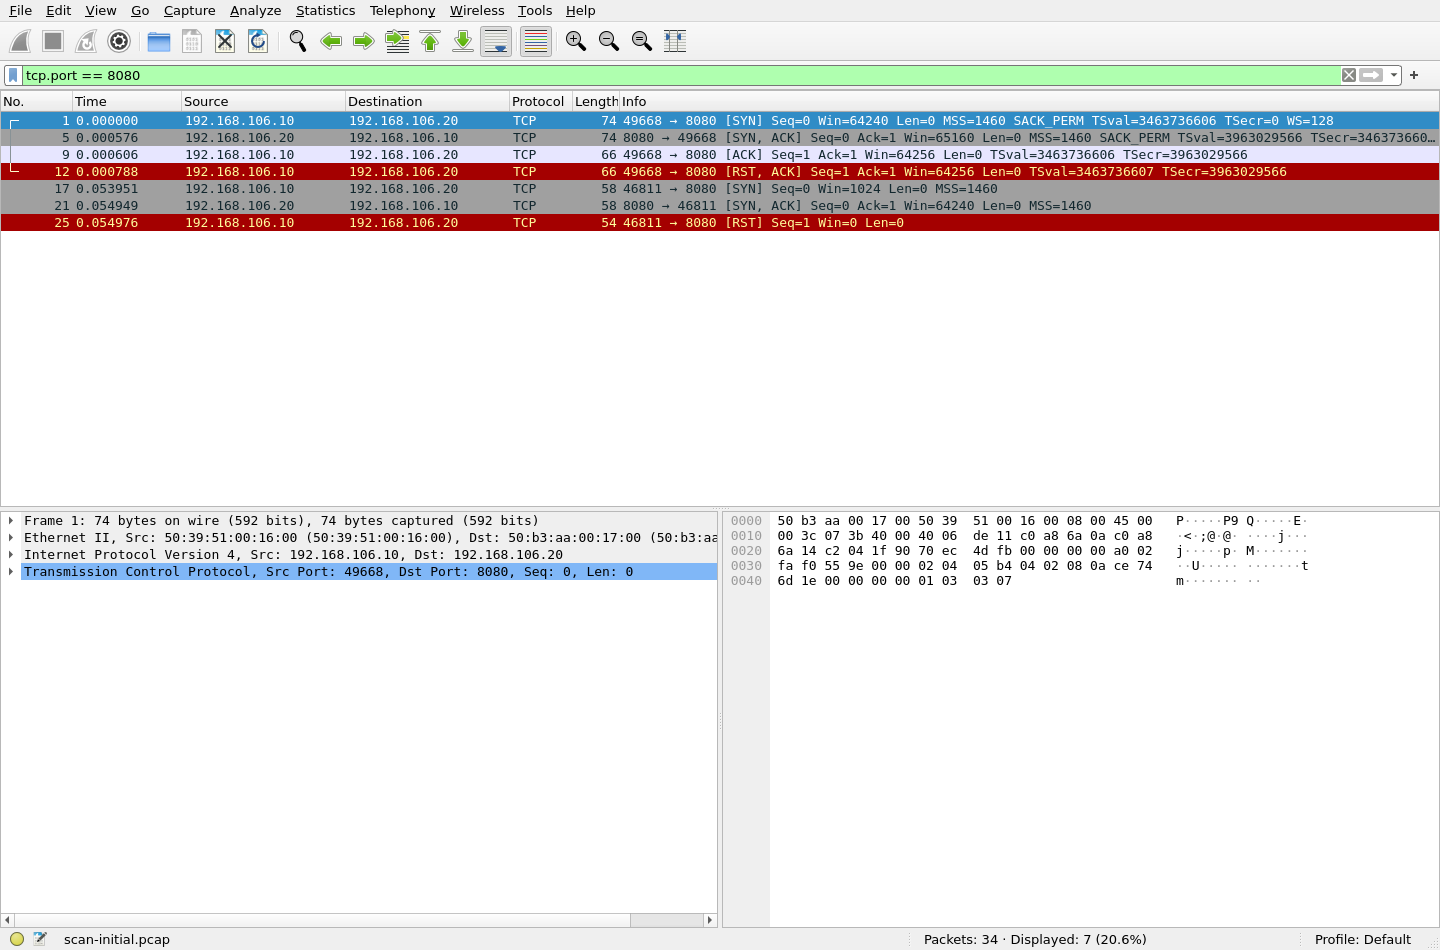
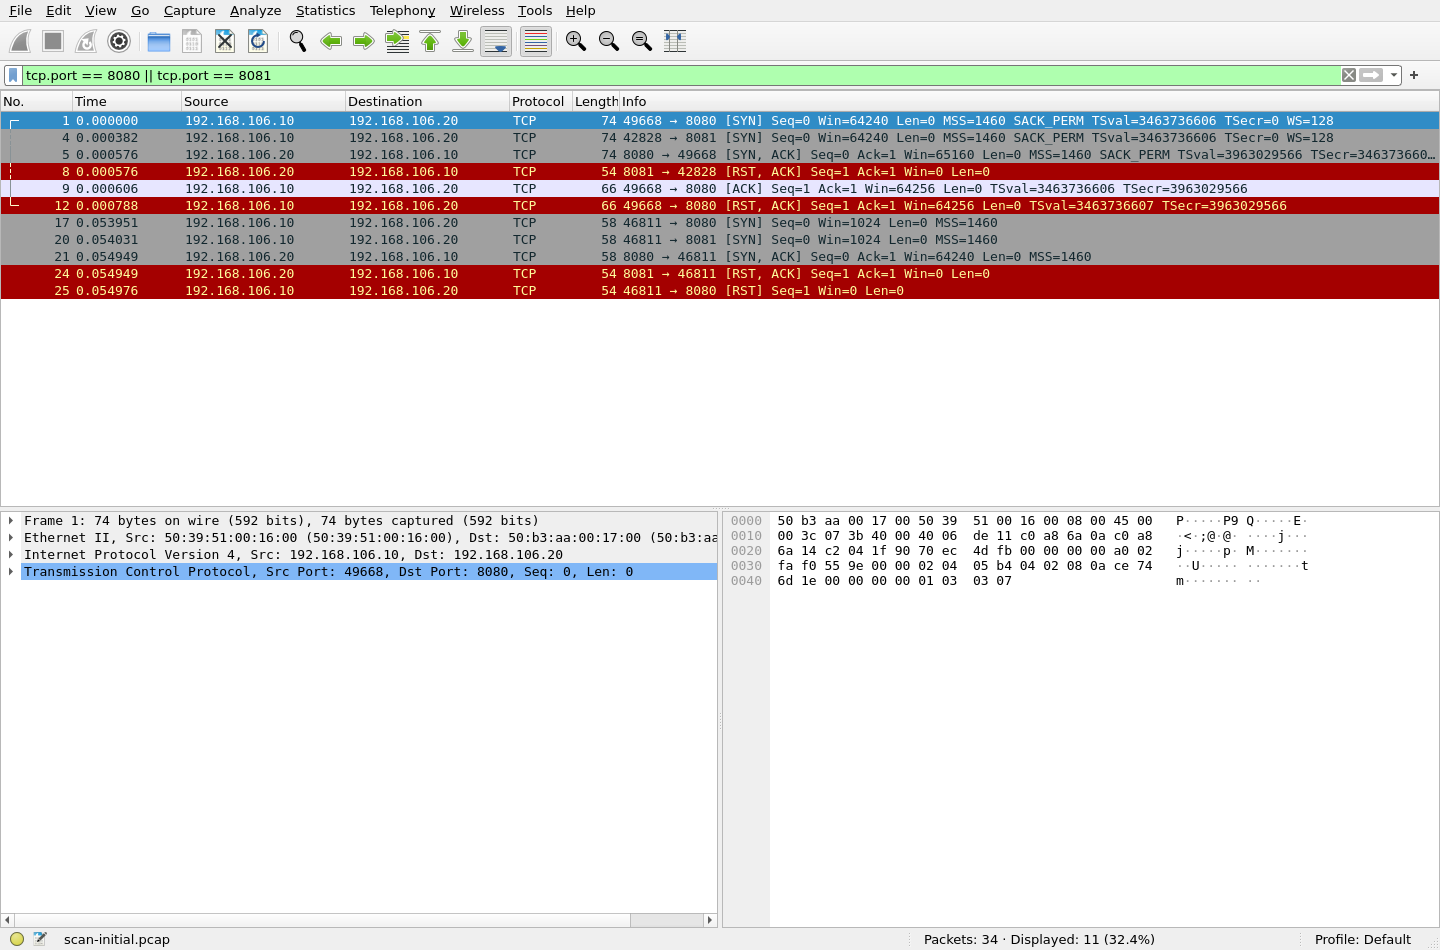
add pics and analysis

Changed region(s): [[0.0, 0.1221, 1.0, 0.3358], [0.75, 0.9768, 0.8125, 1.0], [0.125, 0.0611, 0.1875, 0.0916]]

diff --git a/BKS/lab6/AGENTS.md b/BKS/lab6/AGENTS.md
@@ -34,3 +34,9 @@ stand/BKS6.zip обновлён выгрузкой от 2026-11-28 и прове
 - Сохранились адреса `192.168.106.10/24` и `192.168.106.20/24` без маршрута по умолчанию. Клиент получил два ответа на два ICMP-запроса. На клиенте штатная `fq_codel`, на сервере `-P INPUT ACCEPT` без временных правил. Гостевое имя после перезапуска вернулось к `hq-fw` на обеих ВМ. Метки PNETLab CLIENT и SERVER сохранились.
 - FTP и SFTP проверены повторной загрузкой контрольного файла с сервера. Обе копии совпали по SHA-256 с исходным результатом. Актуальный тестовый пароль FTP доступен клиенту через `~/.bks6-netrc` с правами 600.
 - После проверки на мосту `vnet13_1` подтверждено отсутствие временного IPv4-адреса и отдельного DHCP-процесса. Обе ВМ оставлены запущенными.
+
+## Подтверждение TCP-графиков, 2026-11-28
+
+По просьбе пользователя добавлены пять снимков реальных пакетов из baseline.pcap, delay.pcap и loss.pcap. Показаны ACK с tcp.analysis.ack_rtt и кадры из выборки повторных передач. Для исходного режима и задержки использован tcp.stream 0, для потерь tcp.stream 1. Подсчёт повторов проверен TShark 4.6.9, в отчёте указано отличие разметки от Wireshark 4.0.17. Стенд оставлен выключенным.
+
+Требование пользователя: в лабораторных использовать только настоящие выводы со стенда и подтверждать каждое утверждение снимком. Листинг допустим в крайнем случае при недоступном/выключенном стенде. Для графиков указывать исходные дампы и потоки.
